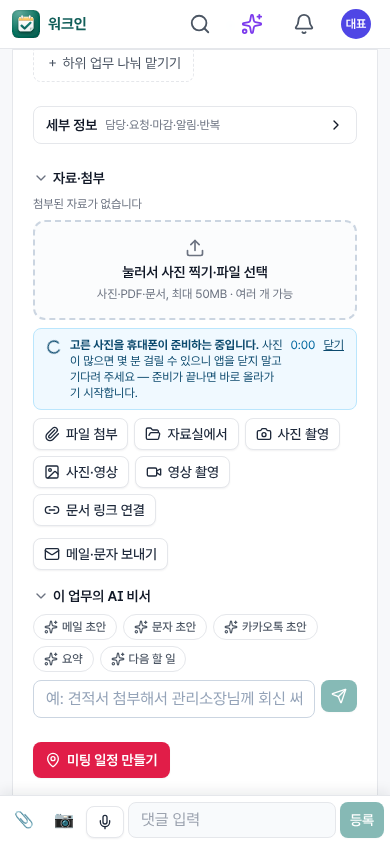
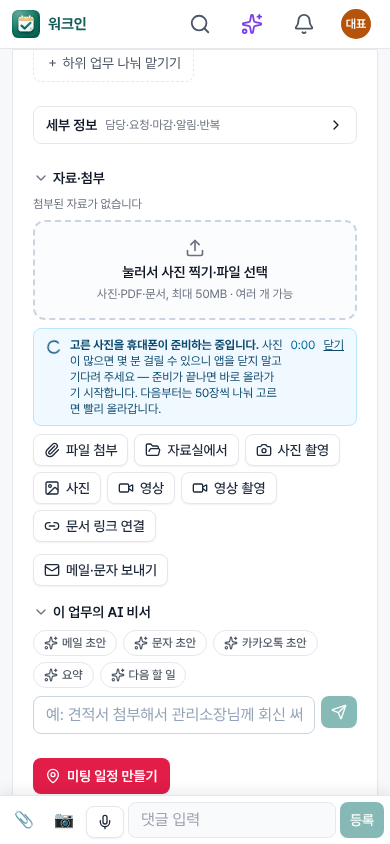
[배포확인요청][로컬요청] 248차 — 긴급 #780 아이폰 사진 50장 업로드 불가: 고르기 칸 accept 명시(HEIC 변환 막기)·사진/영상 따로·HEIC 줄이기·받은 즉시 표시·고르기 진단 · #779 클라우드플레어 비교
로컬 10/28 22:40(운영 조회: 첨부 요청 0건 = 휴대폰이 넘기기 전에 멈춤).
- src/components/pickWait.tsx: PHOTO_ACCEPT(HEIC 를 글자 그대로) · usePickWait(where) open(ref, kind)·received(files)·done({ok,fail}) · 진단 received/cancel/lost/done(파일 이름 없음)
- src/app/api/me/pick-diag: 진단 저장(error_logs 'diag:pick', 알림 없음, 한 사람 한 시간 60건)
- src/app/api/admin/ops·(app)/admin/ops: '휴대폰 사진 고르기 진단(최근 20건)' · 오류 기록에서 diag 뺌
- src/components/shrink.ts: HEIC 는 크기와 상관없이 JPEG 로 · createImageBitmap 안 되면 <img> 로 한 번 더
- src/components/Attachments.tsx: [사진](PHOTO_ACCEPT)·[영상](video/*) 따로 · 받은 파일 n개 · 올린 것 m/n · HEIC 원본은 사진 칸 대신 '내려받아 보기'
- src/components/messenger/Messenger.tsx: [+ › 사진]·[+ › 영상] 따로 · 받은 파일 줄 · 진단
- docs/research/VIDEO_ENGINE_SELFHOST_2026-10-28.md: 클라우드플레어 Realtime 비교 표·로컬 질문 답
- tests: e2e photos213(accept·진단·운영 목록) · ceo211(246차 묶음 줄 '업무 담당')
시험: E2E 5/5 · typecheck·lint·build

Claude-Session: https://claude.ai/code/session_016D6QaBbBuSZXAeHKp3DqaZ

Changed region(s): [[0.0615, 0.4621, 0.9231, 0.955], [0.5538, 0.7085, 0.8, 0.7701], [0.8615, 0.0, 0.9538, 0.0616]]

diff --git a/src/components/Attachments.tsx b/src/components/Attachments.tsx
@@ -10,7 +10,7 @@ import { useBackClose } from './backClose';
 import { DropHint, DropZone, UploadProgress, putFile } from './upload';
 import { AttachEditModal, editModeOf } from './AttachEdit';
 import { holdScreen } from './awake';
-import { IosPickHint, usePickWait } from './pickWait';
+import { IosPickHint, PHOTO_ACCEPT, usePickWait } from './pickWait';
 import { shrinkImage } from './shrink';
 
 export { shrinkImage } from './shrink'; // 213차: 메신저도 쓰므로 작은 파일로 옮김(예전 가져오기 그대로)
@@ -59,7 +59,9 @@ export async function uploadTaskFiles(list: File[], target: { taskId?: string; e
   return ok;
 }
 
-const isImage = (a: any) => a.kind === 'file' && /^image\//.test(a.mime_type ?? '');
+const isImage = (a: any) => a.kind === 'file' && /^image\//.test(a.mime_type ?? '') && !isHeic(a);
+/** 248차 #780: 줄이기(JPEG)에 실패해 아이폰 원본(HEIC)이 그대로 올라간 사진 — PC 브라우저에서 안 보일 수 있어 사진 칸 대신 파일 줄('내려받아 보기') */
+const isHeic = (a: any) => /^image\/hei[cf]$/i.test(a.mime_type ?? '') || /\.(heic|heif)$/i.test(a.file_name ?? '');
 /** 대표 10/27(사진 150장이 지저분하지 않게): 사진 칸에 바로 보이는 수(넘으면 마지막 칸 '+n' → 사진첩) · 사진이 이보다 많으면 파일 목록의 사진 줄은 '사진 n장' 한 줄로 */
 const PHOTO_PREVIEW = 12, PHOTO_ROWS_MAX = 6;
 const seoulDay = (v: string) => dtf('en-CA', { timeZone: 'Asia/Seoul' }).format(new Date(v));
@@ -98,15 +100,19 @@ export function Attachments({ items, taskId, eventId, canEdit, onChange, meId }:
   const canDel = (a: any) => a.created_by === meId || canEdit;
   const albumRef = useRef<HTMLInputElement>(null);
   const vidRef = useRef<HTMLInputElement>(null); // #109 영상 촬영
+  const vidAlbumRef = useRef<HTMLInputElement>(null); // 248차 #780 영상은 사진과 따로 고르기
 
   const [prog, setProg] = useState<{ name: string; pct: number; error?: string }[]>([]);
-  const pick = usePickWait(); // 213차: 아이폰은 사진을 많이 고르면 [추가] 뒤 몇 분 동안 아무 표시가 없음 → '준비 중' 띠
+  const pick = usePickWait('task'); // 213차: 아이폰은 사진을 많이 고르면 [추가] 뒤 몇 분 동안 아무 표시가 없음 → '준비 중' 띠 · 248차 고르기 진단
   async function upload(files: FileList | null) {
-    pick.stop();
+    pick.received(files);
     if (!files?.length) return;
+    const list = Array.from(files);
     setBusy('올리는 중…');
-    await uploadTaskFiles(Array.from(files), { taskId, eventId }, setProg);
+    const ok = await uploadTaskFiles(list, { taskId, eventId }, setProg);
+    pick.done({ ok, fail: list.length - ok });
     setBusy('');
+    if (vidAlbumRef.current) vidAlbumRef.current.value = '';
     if (fileRef.current) fileRef.current.value = '';
     if (camRef.current) camRef.current.value = '';
     if (albumRef.current) albumRef.current.value = '';
@@ -180,6 +186,7 @@ export function Attachments({ items, taskId, eventId, canEdit, onChange, meId }:
                 {a.doc_base_date && <span>기준일 {fmtDate(a.doc_base_date)}</span>}
                 {a.doc_owner && <span>문서 담당 {a.doc_owner}</span>}
                 {a.size_bytes ? <span>{fmtSize(Number(a.size_bytes))}</span> : null}
+                {isHeic(a) && <span className="text-amber-700" data-testid="att-heic">아이폰 사진(HEIC) — PC 에서 안 보이면 내려받아 보기</span>}
                 {a.captured_at && isImage(a) && <span>촬영 {fmtDateTime(a.captured_at)}</span>}{/* 로컬 검수 10/17: 문서(txt 등)는 "촬영" 아님 */}
                 <span>{a.created_by_name}</span>
                 {a.kind === 'link' && <span className="truncate">원본: {(() => { try { return new URL(a.url).hostname; } catch { return ''; } })()}</span>}
@@ -210,13 +217,15 @@ export function Attachments({ items, taskId, eventId, canEdit, onChange, meId }:
       <div className="mt-2 flex flex-wrap gap-1.5">
         <input ref={fileRef} type="file" multiple className="hidden" onChange={(e) => upload(e.target.files)} data-testid="file-input" />
         <input ref={camRef} type="file" accept="image/*" capture="environment" multiple className="hidden" onChange={(e) => upload(e.target.files)} />
-        <input ref={albumRef} type="file" accept="image/*,video/*" multiple className="hidden" onChange={(e) => upload(e.target.files)} data-testid="album-input" />
+        <input ref={albumRef} type="file" accept={PHOTO_ACCEPT} multiple className="hidden" onChange={(e) => upload(e.target.files)} data-testid="album-input" />
+        <input ref={vidAlbumRef} type="file" accept="video/*" multiple className="hidden" onChange={(e) => upload(e.target.files)} data-testid="video-album-input" />
         <input ref={vidRef} type="file" accept="video/*" capture="environment" className="hidden" onChange={(e) => upload(e.target.files)} data-testid="video-input" />
-        <Button size="sm" variant="secondary" onClick={() => pick.open(fileRef)} disabled={!!busy}><Paperclip />파일 첨부</Button>
+        <Button size="sm" variant="secondary" onClick={() => pick.open(fileRef, 'file')} disabled={!!busy}><Paperclip />파일 첨부</Button>
         {taskId && <Button size="sm" variant="secondary" onClick={() => setLibOpen(true)} disabled={!!busy} title="자료실에 있는 파일을 이 업무에 연결(복사 아님, 자료실 권한 그대로)" data-testid="att-from-library"><FolderOpen />자료실에서</Button>}
-        <Button size="sm" variant="secondary" onClick={() => pick.open(camRef)} disabled={!!busy}><Camera />사진 촬영</Button>
-        <Button size="sm" variant="secondary" onClick={() => pick.open(albumRef)} disabled={!!busy} data-testid="att-album"><ImageIcon />사진·영상</Button>
-        <Button size="sm" variant="secondary" onClick={() => pick.open(vidRef)} disabled={!!busy} className="sm:hidden" title="영상 촬영(100MB 까지)" data-testid="att-video-capture"><Video />영상 촬영</Button>
+        <Button size="sm" variant="secondary" onClick={() => pick.open(camRef, 'camera')} disabled={!!busy}><Camera />사진 촬영</Button>
+        <Button size="sm" variant="secondary" onClick={() => pick.open(albumRef, 'photo')} disabled={!!busy} data-testid="att-album"><ImageIcon />사진</Button>
+        <Button size="sm" variant="secondary" onClick={() => pick.open(vidAlbumRef, 'video')} disabled={!!busy} title="영상 고르기(100MB 까지)" data-testid="att-video-album"><Video />영상</Button>
+        <Button size="sm" variant="secondary" onClick={() => pick.open(vidRef, 'video')} disabled={!!busy} className="sm:hidden" title="영상 촬영(100MB 까지)" data-testid="att-video-capture"><Video />영상 촬영</Button>
         <Button size="sm" variant="secondary" onClick={() => setLinkOpen(true)}><Link2 />문서 링크 연결</Button>
         {busy && <span className="inline-flex items-center gap-1.5 text-xs text-ink-2"><Loader2 className="size-3.5 animate-spin" />{busy}</span>}
       </div>
@@ -260,6 +269,7 @@ export function Attachments({ items, taskId, eventId, canEdit, onChange, meId }:
           <div className="flex justify-end gap-2"><Button type="button" variant="secondary" onClick={() => setLinkOpen(false)}>취소</Button><Button type="submit">연결</Button></div>
         </form>
       </Modal>
+      {prog.length > 1 && <p className="mt-2 text-xs text-ink-2" data-testid="pick-received">받은 파일 <b>{prog.length}개</b> · 올린 것 {prog.filter((p) => p.pct >= 100).length}/{prog.length}{prog.some((p) => p.error) ? ` · 못 올린 것 ${prog.filter((p) => p.error).length}` : ''}</p>}
       <UploadProgress items={prog} />
       <input ref={verRef} type="file" className="hidden" onChange={(e) => uploadVersion(verTarget, e.target.files?.[0])} aria-label="새 버전 파일" data-testid="att-version-file" />
       {editOf && <AttachEditModal a={editOf} onClose={() => setEditOf(null)} onSaved={() => { onChange(); broadcastRefresh(); }} onDownload={() => openFile(editOf.id, false)} onUploadNew={() => { setVerTarget(editOf); verRef.current?.click(); }} />}

diff --git a/src/components/messenger/Messenger.tsx b/src/components/messenger/Messenger.tsx
@@ -10,7 +10,7 @@ import { useSession } from '@/components/session';
 import { cameBack } from '@/components/urlState';
 import { DropZone, UploadProgress, putFile } from '@/components/upload';
 import { holdScreen } from '@/components/awake';
-import { IosPickHint, usePickWait } from '@/components/pickWait';
+import { IosPickHint, PHOTO_ACCEPT, usePickWait } from '@/components/pickWait';
 import { shrinkImage } from '@/components/shrink';
 import { CHAT_FILES_MAX } from '@/lib/chatShared';
 import { Avatar, Button, Field, Modal, Skeleton, cx, fmtDateTime, inputCls, toast } from '@/components/ui';
@@ -361,7 +361,8 @@ export function ChatRoom({ id, live, onRead, onBack, compact, onExpand, onClose,
   const loadingNewer = useRef(false);
   const fileRef = useRef<HTMLInputElement>(null);
   const camRef = useRef<HTMLInputElement>(null);
-  const galleryRef = useRef<HTMLInputElement>(null); // #109 갤러리 사진·영상
+  const galleryRef = useRef<HTMLInputElement>(null); // #109 갤러리 사진(248차 #780 사진만 — 영상은 videoRef)
+  const videoRef = useRef<HTMLInputElement>(null);
   const inputRef = useRef<HTMLTextAreaElement>(null);
   const bottom = useRef<HTMLDivElement>(null);
   const lastTyping = useRef(0);
@@ -566,9 +567,9 @@ export function ChatRoom({ id, live, onRead, onBack, compact, onExpand, onClose,
     else { stopSpeaking(); setVPhase('idle'); setHeard(''); }
   }
   useEffect(() => { if (voice) keepScreenOn(true); return () => { keepScreenOn(false); stopSpeaking(); }; }, []); // eslint-disable-line react-hooks/exhaustive-deps
-  const pick = usePickWait(); // 213차: 아이폰은 사진을 많이 고르면 [추가] 뒤 몇 분 동안 아무 표시가 없음 → '준비 중' 띠
+  const pick = usePickWait('chat'); // 213차: 아이폰은 사진을 많이 고르면 [추가] 뒤 몇 분 동안 아무 표시가 없음 → '준비 중' 띠 · 248차 고르기 진단
   async function upload(files: FileList | File[]) {
-    pick.stop();
+    pick.received(files);
     // 213차(대표 10/27 아이폰 147장 '안 보내짐'): 예전엔 30장이 넘으면 나머지를 말없이 버림 → 한 번에 CHAT_FILES_MAX(200)장까지, 넘으면 알림
     const all = Array.from(files); const list = all.slice(0, CHAT_FILES_MAX);
     if (all.length > list.length) toast.info(`한 번에 ${CHAT_FILES_MAX}개까지 보냅니다 — 나머지 ${all.length - list.length}개는 다시 골라 주세요`);
@@ -612,6 +613,8 @@ export function ChatRoom({ id, live, onRead, onBack, compact, onExpand, onClose,
       }
     } finally { release?.(); }
     if (failed && list.length > 5) toast.error(`${list.length}개 중 ${failed}개를 보내지 못했습니다 — 진행 목록에서 이유를 보고 다시 보내 주세요`);
+    pick.done({ ok: list.length - failed, fail: failed });
+    if (videoRef.current) videoRef.current.value = '';
     if (fileRef.current) fileRef.current.value = '';
     if (camRef.current) camRef.current.value = '';
     if (galleryRef.current) galleryRef.current.value = '';
@@ -930,6 +933,7 @@ export function ChatRoom({ id, live, onRead, onBack, compact, onExpand, onClose,
         </div>
         <div className="h-5 bg-slate-50/60 px-3 text-xs text-ink-3" aria-live="polite" data-testid="chat-typing">{typing.length ? `${typing.join(', ')} 님이 입력 중…` : ''}</div>
         {pick.node && <div className="px-3 pt-2">{pick.node}</div>}
+        {prog.length > 1 && <p className="px-3 pt-1 text-xs text-ink-2" data-testid="pick-received">받은 파일 <b>{prog.length}개</b> · 보낸 것 {prog.filter((p) => p.pct >= 100).length}/{prog.length}{prog.some((p) => p.error) ? ` · 못 보낸 것 ${prog.filter((p) => p.error).length}` : ''}</p>}
         <UploadProgress items={prog} />
         {replyTo && (
           <div className="flex items-center gap-2 border-t border-line bg-teal-50/60 px-3 py-1.5 text-xs" data-testid="chat-replying">
@@ -974,9 +978,10 @@ export function ChatRoom({ id, live, onRead, onBack, compact, onExpand, onClose,
             // C13 입력창 [+]: 사진·카메라·파일·투표·일정·업무·스티커·음성 모드(휴대폰은 여기서, PC 는 📎·😊·@ 도 그대로)
             <div className="absolute bottom-full left-2 right-2 z-20 mb-1 grid grid-cols-4 gap-1 rounded-card border border-line bg-white p-2 shadow-pop sm:right-auto sm:w-80" data-testid="chat-plus-panel" onClick={() => setPlusOpen(false)}>
               {([
-                ['photo', '사진·영상', ImageIcon, () => pick.open(galleryRef), 'bg-sky-50 text-sky-700'],
-                ['camera', '카메라', Camera, () => pick.open(camRef), 'bg-teal-50 text-teal-700'],
-                ['file', '파일', Paperclip, () => pick.open(fileRef), 'bg-slate-100 text-slate-700'],
+                ['photo', '사진', ImageIcon, () => pick.open(galleryRef, 'photo'), 'bg-sky-50 text-sky-700'],
+                ['video', '영상', Play, () => pick.open(videoRef, 'video'), 'bg-sky-50 text-sky-700'],
+                ['camera', '카메라', Camera, () => pick.open(camRef, 'camera'), 'bg-teal-50 text-teal-700'],
+                ['file', '파일', Paperclip, () => pick.open(fileRef, 'file'), 'bg-slate-100 text-slate-700'],
                 ['poll', '투표', BarChart3, () => setPollOpen(true), 'bg-violet-50 text-violet-700'],
                 ['event', '일정', CalendarPlus, () => { const today = dayKey(new Date().toISOString()); setEventDraft({ title: '', date: today, time: null }); }, 'bg-amber-50 text-amber-700'],
                 ['task', '업무', SquarePen, () => setNewTask(true), 'bg-rose-50 text-rose-700'],
@@ -991,10 +996,11 @@ export function ChatRoom({ id, live, onRead, onBack, compact, onExpand, onClose,
             </div>
           )}
           <button type="button" className={iconBtn} onClick={() => { setPlusOpen((v) => !v); setEmojiOpen(false); }} aria-label="더 보내기(사진·파일·투표·일정·업무)" aria-expanded={plusOpen} title="사진·파일·투표·일정·업무" data-testid="chat-plus"><Plus className={cx('size-[18px] transition-transform', plusOpen && 'rotate-45')} /></button>
-          <button type="button" className={cx(iconBtn, 'hidden sm:inline-flex')} onClick={() => pick.open(fileRef)} aria-label="파일 보내기" title="파일 보내기"><Paperclip className="size-[18px]" /></button>
+          <button type="button" className={cx(iconBtn, 'hidden sm:inline-flex')} onClick={() => pick.open(fileRef, 'file')} aria-label="파일 보내기" title="파일 보내기"><Paperclip className="size-[18px]" /></button>
           <input ref={fileRef} type="file" multiple className="hidden" onChange={(e) => e.target.files && upload(e.target.files)} data-testid="chat-file" />
           <input ref={camRef} type="file" accept="image/*" capture="environment" className="hidden" onChange={(e) => e.target.files && upload(e.target.files)} />
-          <input ref={galleryRef} type="file" accept="image/*,video/*" multiple className="hidden" onChange={(e) => e.target.files && upload(e.target.files)} data-testid="chat-gallery-input" />
+          <input ref={galleryRef} type="file" accept={PHOTO_ACCEPT} multiple className="hidden" onChange={(e) => e.target.files && upload(e.target.files)} data-testid="chat-gallery-input" />
+          <input ref={videoRef} type="file" accept="video/*" multiple className="hidden" onChange={(e) => e.target.files && upload(e.target.files)} data-testid="chat-video-input" />
           <VoiceButton small value={text} onChange={(v) => onType(v)} label="음성 입력" />
           <textarea ref={inputRef} rows={1} className={cx(inputCls, 'max-h-32 min-h-9 min-w-0 flex-1 resize-none py-1.5')} placeholder="메시지 입력" title="Enter 보내기 · Shift+Enter 줄바꿈 · @ 멘션 · 이미지 붙여넣기" value={text}
             onChange={(e) => onType(e.target.value)} aria-label="메시지" data-testid="chat-input"

diff --git a/src/components/pickWait.tsx b/src/components/pickWait.tsx
@@ -2,8 +2,33 @@
 import { useCallback, useEffect, useRef, useState, type RefObject } from 'react';
 import { Loader2 } from 'lucide-react';
 import { holdScreen } from './awake';
+import { api } from './client';
 
 const MAX_WAIT_MS = 20 * 60_000;
+
+/** 248차 #780(대표 '김민수 본부장 50장 사진 업로드 불가 — 원인 분석하고 해결'): 사진 고르기 칸 accept 를 'image/*' 대신 명시 목록으로.
+ *  아이폰 웹킷은 accept 가 와일드카드면 HEIC 를 '목록에 없음'으로 보고 [추가] 뒤 사진마다 JPEG 로 바꿔 넘김(장수에 비례, 그동안 아무 표시 없음 — WebKit 267277·303803).
+ *  HEIC 를 글자 그대로 넣으면 바꾸지 않고 바로 넘김 → 웹에서 한 장씩 줄여 JPEG 로 올림(shrinkImage). 영상은 따로 고르기(영상 변환에 사진이 묶이지 않게) */
+export const PHOTO_ACCEPT = 'image/jpeg,image/heic,image/heif,image/png,image/webp,image/gif';
+type PickWhere = 'task' | 'chat';
+type PickKind = 'photo' | 'video' | 'camera' | 'file';
+const KEY = 'wos_pick';
+const readMark = (): { at: number; where: PickWhere; kind: PickKind } | null => { try { const v = sessionStorage.getItem(KEY); return v ? JSON.parse(v) : null; } catch { return null; } };
+const clearMark = () => { try { sessionStorage.removeItem(KEY); } catch { /* 저장 못 함 */ } };
+const secSince = (at?: number) => (at ? Math.round((Date.now() - at) / 100) / 10 : null);
+/** 고르기 진단(파일 이름·사진 내용은 안 보냄): 받음(장수·크기·형식별 수·연 뒤 걸린 초) · 취소 · 고르는 중 화면이 다시 열림(웹뷰가 죽음) · 끝(성공·실패) + 기기 */
+function diag(event: 'received' | 'cancel' | 'lost' | 'done', extra: Record<string, unknown>) {
+  try {
+    const app = !!(window as unknown as { Capacitor?: { isNativePlatform?: () => boolean } }).Capacitor?.isNativePlatform?.();
+    void api('/api/me/pick-diag', { body: { event, ...extra, ua: navigator.userAgent.slice(0, 200), app } }).catch(() => {});
+  } catch { /* 진단은 실패해도 그만 */ }
+}
+const kindsOf = (files: File[]) => {
+  const k = { heic: 0, jpeg: 0, png: 0, video: 0, other: 0 };
+  for (const f of files) { const t = (f.type || '').toLowerCase(), n = f.name.toLowerCase();
+    if (/heic|heif/.test(t) || /\.(heic|heif)$/.test(n)) k.heic++; else if (/jpe?g/.test(t)) k.jpeg++; else if (/png/.test(t)) k.png++; else if (/^video\//.test(t)) k.video++; else k.other++; }
+  return k;
+};
 
 /**
  * 대표 10/27(아이폰에서 사진 147장 '안 보내짐'): 아이폰은 사진을 많이 고르면 [추가]를 누른 뒤 휴대폰이 사진을 넘겨줄 준비를 하는 동안
@@ -12,8 +37,9 @@ const MAX_WAIT_MS = 20 * 60_000;
  * 고르기를 취소하면(input 'cancel', iOS 16.4+·Chrome 113+) 걷는다. 그동안 화면이 꺼지지 않게 잡는다(꺼지면 앱이 멈춰 준비가 끊길 수 있음).
  * 쓰는 쪽: const pick = usePickWait(); 단추 = pick.open(inputRef) · onChange 맨 앞 pick.stop() · 화면에 {pick.node}
  */
-export function usePickWait() {
+export function usePickWait(where: PickWhere = 'task') {
   const [on, setOn] = useState(false);
+  const got = useRef<{ at: number; count: number; kind: PickKind } | null>(null);
   const [since, setSince] = useState(0); const [, tick] = useState(0); // 지난 시간(멈춘 게 아님을 보이게)
   const hold = useRef<Promise<() => void> | null>(null);
   const timer = useRef<ReturnType<typeof setTimeout> | null>(null);
@@ -22,15 +48,32 @@ export function usePickWait() {
     if (timer.current) { clearTimeout(timer.current); timer.current = null; }
     const h = hold.current; hold.current = null; h?.then((release) => release());
   }, []);
-  const open = useCallback((ref: RefObject<HTMLInputElement | null>) => {
+  const open = useCallback((ref: RefObject<HTMLInputElement | null>, kind: PickKind = 'photo') => {
     if (!ref.current) return;
     setOn(true); setSince(Date.now());
     hold.current ??= holdScreen();
     if (timer.current) clearTimeout(timer.current);
     timer.current = setTimeout(stop, MAX_WAIT_MS);
-    ref.current.addEventListener('cancel', stop, { once: true });
+    try { sessionStorage.setItem(KEY, JSON.stringify({ at: Date.now(), where, kind })); } catch { /* 저장 못 함 */ }
+    ref.current.addEventListener('cancel', () => { const m = readMark(); clearMark(); if (m) diag('cancel', { where, kind, sec: secSince(m.at) }); stop(); }, { once: true });
     ref.current.click();
-  }, [stop]);
+  }, [stop, where]);
+  /** 248차 #780: 고르기 창에서 파일이 들어온 순간(onChange 맨 앞) — 띠를 걷고 받은 장수·형식·걸린 초를 기록 */
+  const received = useCallback((files: FileList | File[] | null | undefined) => {
+    stop();
+    const list = Array.from(files ?? []); const m = readMark(); clearMark();
+    if (!m || !list.length) return;
+    got.current = { at: Date.now(), count: list.length, kind: m.kind };
+    diag('received', { where, kind: m.kind, count: list.length, bytes: list.reduce((a, f) => a + f.size, 0), kinds: kindsOf(list), sec: secSince(m.at) });
+  }, [stop, where]);
+  /** 올리기가 끝나면 — 성공·실패 수와 첫 오류(파일 이름 없이) */
+  const done = useCallback((r: { ok: number; fail: number; firstError?: string | null }) => {
+    const g = got.current; got.current = null;
+    if (!g) return;
+    diag('done', { where, kind: g.kind, count: g.count, ok: r.ok, fail: r.fail, firstError: r.firstError?.slice(0, 160) ?? null, sec: secSince(g.at) });
+  }, [where]);
+  // 고르는 중에 화면이 다시 열렸으면(앱 웹뷰가 메모리 부족 등으로 죽음) — 다음에 화면을 열 때 한 번 기록
+  useEffect(() => { const m = readMark(); if (m && Date.now() - m.at > 3000) { clearMark(); diag('lost', { where: m.where, kind: m.kind, sec: secSince(m.at) }); } }, []);
   useEffect(() => stop, [stop]); // 화면을 떠나면 놓음
   useEffect(() => { if (!on) return; const t = setInterval(() => tick((n) => n + 1), 1000); return () => clearInterval(t); }, [on]);
   const sec = on && since ? Math.max(0, Math.floor((Date.now() - since) / 1000)) : 0;
@@ -42,7 +85,7 @@ export function usePickWait() {
       <button type="button" className="shrink-0 underline" onClick={stop} data-testid="pick-wait-close">닫기</button>
     </div>
   ) : null;
-  return { open, stop, node, on };
+  return { open, stop, received, done, node, on };
 }
 
 /**

diff --git a/src/components/shrink.ts b/src/components/shrink.ts
@@ -1,21 +1,35 @@
 'use client';
 
-/** V8 5번: 사진은 올리기 전에 긴 변 1600px·JPEG 85% 로 줄인다(휴대폰 원본 5~10MB → 수백 KB). GIF·작은 사진·실패 시 원본 */
-export async function shrinkImage(file: File): Promise<File> {
-  if (!/^image\/(jpeg|png|webp|heic|heif)$/i.test(file.type) || file.size < 400 * 1024 || typeof createImageBitmap !== 'function') return file;
+/** V8 5번: 사진은 올리기 전에 긴 변 1600px·JPEG 85% 로 줄인다(휴대폰 원본 5~10MB → 수백 KB). GIF·작은 사진·실패 시 원본
+ *  248차 #780: 아이폰 사진(HEIC)은 고르기 칸이 변환하지 않고 넘기므로(PHOTO_ACCEPT) 크기와 상관없이 JPEG 로 바꿈 — createImageBitmap 이 못 읽으면 <img> 로 한 번 더(iOS 17+ 는 HEIC 를 읽음),
+ *  그래도 못 읽으면 원본 HEIC 를 그대로 올림(첨부 줄에 '아이폰 사진(HEIC) — 내려받아 보기') */
+const isHeicFile = (f: File) => /^image\/hei[cf]$/i.test(f.type) || /\.(heic|heif)$/i.test(f.name);
+async function decode(file: File): Promise<{ w: number; h: number; draw: (c: CanvasRenderingContext2D, w: number, h: number) => void; close: () => void }> {
+  if (typeof createImageBitmap === 'function') {
+    try { const b = await createImageBitmap(file); return { w: b.width, h: b.height, draw: (c, w, h) => c.drawImage(b, 0, 0, w, h), close: () => b.close() }; } catch { /* 아래 <img> 로 */ }
+  }
+  const url = URL.createObjectURL(file);
   try {
-    const bmp = await createImageBitmap(file);
+    const img = new Image(); img.src = url; await img.decode();
+    return { w: img.naturalWidth, h: img.naturalHeight, draw: (c, w, h) => c.drawImage(img, 0, 0, w, h), close: () => { img.src = ''; URL.revokeObjectURL(url); } };
+  } catch (e) { URL.revokeObjectURL(url); throw e; }
+}
+export async function shrinkImage(file: File): Promise<File> {
+  const heic = isHeicFile(file);
+  if (!heic && (!/^image\/(jpeg|png|webp)$/i.test(file.type) || file.size < 400 * 1024)) return file;
+  try {
+    const bmp = await decode(file);
     // 대표 10/27(휴대폰 사진 150장 안 올라감): 풀어 놓은 사진·그림판을 바로 비움 — 안 비우면 장수가 많을 때 휴대폰 메모리가 모자라 화면이 멈춤
     const c = document.createElement('canvas');
     try {
-      const scale = Math.min(1, 1600 / Math.max(bmp.width, bmp.height));
-      if (scale === 1 && file.size < 1.5 * 1024 * 1024) return file;
-      c.width = Math.round(bmp.width * scale); c.height = Math.round(bmp.height * scale);
-      c.getContext('2d')!.drawImage(bmp, 0, 0, c.width, c.height);
+      const scale = Math.min(1, 1600 / Math.max(bmp.w, bmp.h));
+      if (!heic && scale === 1 && file.size < 1.5 * 1024 * 1024) return file;
+      c.width = Math.round(bmp.w * scale); c.height = Math.round(bmp.h * scale);
+      bmp.draw(c.getContext('2d')!, c.width, c.height);
     } finally { bmp.close(); }
     const blob: Blob | null = await new Promise((r) => c.toBlob(r, 'image/jpeg', 0.85));
     c.width = 0; c.height = 0;
-    if (!blob || blob.size >= file.size) return file;
+    if (!blob || (!heic && blob.size >= file.size)) return file;
     return new File([blob], file.name.replace(/\.\w+$/, '') + '.jpg', { type: 'image/jpeg', lastModified: file.lastModified });
   } catch { return file; }
 }

diff --git a/src/app/api/admin/ops/route.ts b/src/app/api/admin/ops/route.ts
@@ -5,9 +5,9 @@ import { requireMenu } from '@/lib/menuPerms';
 export const GET = handler(async ({ user }) => {
   await requireMenu(user, 'ops', 'view');
   const sql = db();
-  const [jobs, errors, deliveries, syncErrors, counts, recent, noDevice, dbLocale] = await Promise.all([
+  const [jobs, errors, deliveries, syncErrors, counts, recent, noDevice, dbLocale, pickDiag] = await Promise.all([
     sql`select id, job, trigger, started_at, finished_at, status, detail from job_runs order by id desc limit 30`,
-    sql`select id, source, message, context, created_at from error_logs order by id desc limit 50`,
+    sql`select id, source, message, context, created_at from error_logs where source not like 'diag:%' order by id desc limit 50`,
     sql`select status, count(*)::int c from notification_deliveries where created_at > now() - interval '7 days' group by status`,
     sql`select l.id, l.action, l.status, l.detail, l.created_at, u.name from sync_logs l left join users u on u.id = l.user_id
         where l.status in ('error','conflict') order by l.id desc limit 30`,
@@ -26,6 +26,8 @@ export const GET = handler(async ({ user }) => {
         and not exists (select 1 from push_subscriptions p where p.user_id = u.id and p.disabled_at is null) order by u.name`,
     // 163차 ①(로컬 10/26 ⑤): 운영 DB 정렬 규칙 — en_US.utf8 이면 한글 이름순이 가나다순이 아닐 수 있음(C.UTF-8·ko_KR 이면 괜찮음)
     sql<{ datcollate: string; datctype: string; version: string }[]>`select datcollate, datctype, version() as version from pg_database where datname = current_database()`,
+    // 248차 #780: 휴대폰 사진 고르기 진단 최근 20건(사람 이름·기기)
+    sql`select e.id, e.message, e.context, e.created_at, u.name from error_logs e left join users u on u.id::text = e.context->>'userId' where e.source = 'diag:pick' order by e.id desc limit 20`,
   ]);
-  return { jobs, errors, deliveries, syncErrors, counts: counts[0], recent, noDevice, dbLocale: dbLocale[0] ?? null };
+  return { jobs, errors, deliveries, syncErrors, counts: counts[0], recent, noDevice, dbLocale: dbLocale[0] ?? null, pickDiag };
 });

diff --git a/src/app/api/me/pick-diag/route.ts b/src/app/api/me/pick-diag/route.ts
@@ -1,0 +1,20 @@
+import { z } from 'zod';
+import { body, handler } from '@/lib/api';
+import { db } from '@/lib/db';
+import { tenantOf } from '@/lib/types';
+
+const n = z.number().int().min(0).max(100000).optional();
+const input = z.object({
+  event: z.enum(['received', 'cancel', 'lost', 'done']), where: z.enum(['task', 'chat']).optional(), kind: z.enum(['photo', 'video', 'camera', 'file']).optional(),
+  count: n, bytes: z.number().min(0).max(1e12).optional(), sec: z.number().min(0).max(86400).nullable().optional(), ok: n, fail: n, firstError: z.string().max(160).nullable().optional(),
+  kinds: z.object({ heic: n, jpeg: n, png: n, video: n, other: n }).optional(), ua: z.string().max(200).optional(), app: z.boolean().optional(),
+});
+/** 248차 #780: 휴대폰 사진 고르기 진단 — 받음·취소·화면 다시 열림·끝(파일 이름·사진 내용 없음). 오류 기록 표에 'diag:pick' 으로(알림 없음) · 한 사람 한 시간 60건까지 */
+export const POST = handler(async ({ req, user }) => {
+  const i = await body(req, input); const sql = db();
+  const [{ c }] = await sql<{ c: number }[]>`select count(*)::int c from error_logs where source = 'diag:pick' and context->>'userId' = ${user.id} and created_at > now() - interval '1 hour'`;
+  if (c >= 60) return { ok: false };
+  const msg = `${i.event}${i.count != null ? ` ${i.count}개` : ''}${i.sec != null ? ` · ${i.sec}초` : ''}${i.fail ? ` · 실패 ${i.fail}` : ''}`;
+  await sql`insert into error_logs (source, message, context) values ('diag:pick', ${msg}, ${sql.json({ ...i, userId: user.id, tenant: tenantOf(user) } as never)})`;
+  return { ok: true };
+});

diff --git a/src/app/(app)/admin/ops/page.tsx b/src/app/(app)/admin/ops/page.tsx
@@ -87,6 +87,12 @@ export default function Ops() {
         <ul className="space-y-1 text-xs">{data.syncErrors.map((s: any) => <li key={s.id}>{fmtDateTime(s.created_at)} · {s.name} · {s.action} · {s.status} {s.detail?.error ?? ''}</li>)}{!data.syncErrors.length && <li className="text-slate-400">없음</li>}</ul>
       </section>
       <section className="rounded-lg border bg-white p-4">
+        <h2 className="mb-2 text-sm font-semibold">휴대폰 사진 고르기 진단 (최근 20건)</h2>
+        <ul className="space-y-1 text-xs" data-testid="ops-pick-diag">{(data.pickDiag ?? []).map((e: any) => { const c = e.context ?? {}; const k = c.kinds ?? {};
+          return <li key={e.id}>{fmtDateTime(e.created_at)} · {e.name ?? '?'} · {c.where === 'chat' ? '메신저' : '업무'} · {e.message}{c.kinds ? ` · HEIC ${k.heic ?? 0}·JPEG ${k.jpeg ?? 0}·PNG ${k.png ?? 0}·영상 ${k.video ?? 0}` : ''}{c.bytes ? ` · ${(c.bytes / 1048576).toFixed(1)}MB` : ''}{c.firstError ? ` · 첫 오류 ${c.firstError}` : ''} · {c.app ? '앱' : '웹'} · {String(c.ua ?? '').match(/(iPhone OS|Android) [\d_.]+/)?.[0]?.replace(/_/g, '.') ?? ''}</li>; })}
+          {!(data.pickDiag ?? []).length && <li className="text-slate-400">없음</li>}</ul>
+      </section>
+      <section className="rounded-lg border bg-white p-4">
         <h2 className="mb-2 text-sm font-semibold">오류 기록</h2>
         <ul className="space-y-1 text-xs">{data.errors.map((e: any) => <li key={e.id} className="text-red-700">{fmtDateTime(e.created_at)} · [{e.source}] {e.message}</li>)}{!data.errors.length && <li className="text-slate-400">없음</li>}</ul>
       </section>

diff --git a/TEST_REPORT.md b/TEST_REPORT.md
@@ -1,7 +1,9 @@
 # 시험 보고서
 
 최종 실행: 2026-10-13 (UTC) · 클라우드 개발 환경 (Node 22, PostgreSQL 16, Chromium 141)
-요약 (2026-10-28 247차: 로컬 10/28 21:35 대표 결정 #777·#778(후속조사): ① 매주 자동 후속조사 묶음 기본 꺼짐(SALES_RESEARCH_WEEKLY 없으면 'off' — 환경 변수를 넣은 경우만 자동) · 머리 줄 '카드를 확인한 뒤 [후속조사 넘기기]로 사람이 넘깁니다 — 자동 묶음 꺼짐' ② 준공·입주 시설 카드 [후속조사 넘기기] · 여러 개 체크 → 아래 줄 [후속조사 넘기기 n곳] → 담당 고르기(기본 = 관리 › 담당자 지정 '영업 원천 · 시설', 영업 공간 사람만) → 업무 하나(마감 7일·알림) · 이미 후속조사 중인 곳은 건너뜀 · 카드 '후속조사 중 · 담당 · 마감' ③ 완료 창 연락 결과 먼저 — 통화(통화함·안 받음·번호 틀림) · 통화한 분 직함(이름·개인 번호 안 적음) · 반응 · 미팅 약속 일시(→ 일정, 회사 캘린더 권한 없으면 내 캘린더) · 다음 연락일(→ '[영업] 단지 — 다음 연락' 업무) · 같은 값 다시 저장해도 한 번만 · 통화가 안 됐고 다른 값이 없으면 '확인 못함' · 계약 만료일은 선택 칸 · 카드에 직함·반응·미팅
+요약 (2026-10-28 248차: 긴급 로컬 10/28 22:40 #780(대표 '김민수 본부장 50장 사진 업로드 불가 — 원인 분석하고 해결') + #779: ① 원인(로컬 운영 조회 + 공개 자료): 첨부 요청이 한 번도 안 들어옴 = 휴대폰이 파일을 넘기기 전에 멈춤. 사진 고르기 칸이 accept="image/*,video/*"(와일드카드)라 아이폰 웹킷이 HEIC 를 '목록에 없음'으로 보고 [추가] 뒤 사진마다 JPEG 로 변환(장수에 비례, 그동안 표시 없음 — WebKit 267277·303803) ② 고침: 업무 첨부·메신저 사진 고르기 칸 accept = 'image/jpeg,image/heic,image/heif,image/png,image/webp,image/gif'(HEIC 를 글자 그대로 → 변환 없이 바로 넘김) · 영상은 [영상] 따로(accept video/*) · 촬영 칸은 그대로 ③ 넘어온 HEIC 는 웹에서 한 장씩 JPEG 로 줄여 올림(createImageBitmap → 안 되면 <img> 로 한 번 더 → 그래도 안 되면 원본 HEIC + 첨부 줄 '아이폰 사진(HEIC) — 내려받아 보기') ④ 받은 즉시 '받은 파일 n개 · 올린 것 m/n' 한 줄 ⑤ 고르기 진단(파일 이름·사진 내용 없음): 받음(장수·크기·HEIC/JPEG/PNG/영상 수·연 뒤 걸린 초)·취소·고르는 중 화면이 다시 열림(웹뷰 죽음)·끝(성공·실패) + 기기(앱/웹·iOS 버전) → 관리 › 운영 '휴대폰 사진 고르기 진단(최근 20건)', 오류 기록과 따로 ⑥ #779 화상회의 계획서에 클라우드플레어 Realtime 비교 표(서버 운영 없음·월 1,000GB 무료·기간 2~3주)와 로컬 질문 5개 답 · 246차가 바꾼 캘린더 묶음 줄 표시('업무 1' → '업무 담당')를 211차 시험에 반영
+시험: E2E 5/5(213차 고르기 칸 accept·취소/받음/끝 진단·운영 목록 · #749 147장 업무·메신저 · 211차 14장·캘린더 한 줄 · 입찰 같은 제목·사전규격 대상 아님 탭) · typecheck·lint·build
+확인 못함: 실제 아이폰에서 [추가] 뒤 바로 넘어오는지(크로미움 휴대폰 흉내는 HEIC 변환이 없어 재현 못함) — 배포 뒤 김민수 본부장 50장 실기기 시험과 관리 › 운영 진단 줄로 확인 · HEIC 를 웹에서 줄일 수 있는 iOS 버전) · 앞선 요약 (2026-10-28 247차: 로컬 10/28 21:35 대표 결정 #777·#778(후속조사): ① 매주 자동 후속조사 묶음 기본 꺼짐(SALES_RESEARCH_WEEKLY 없으면 'off' — 환경 변수를 넣은 경우만 자동) · 머리 줄 '카드를 확인한 뒤 [후속조사 넘기기]로 사람이 넘깁니다 — 자동 묶음 꺼짐' ② 준공·입주 시설 카드 [후속조사 넘기기] · 여러 개 체크 → 아래 줄 [후속조사 넘기기 n곳] → 담당 고르기(기본 = 관리 › 담당자 지정 '영업 원천 · 시설', 영업 공간 사람만) → 업무 하나(마감 7일·알림) · 이미 후속조사 중인 곳은 건너뜀 · 카드 '후속조사 중 · 담당 · 마감' ③ 완료 창 연락 결과 먼저 — 통화(통화함·안 받음·번호 틀림) · 통화한 분 직함(이름·개인 번호 안 적음) · 반응 · 미팅 약속 일시(→ 일정, 회사 캘린더 권한 없으면 내 캘린더) · 다음 연락일(→ '[영업] 단지 — 다음 연락' 업무) · 같은 값 다시 저장해도 한 번만 · 통화가 안 됐고 다른 값이 없으면 '확인 못함' · 계약 만료일은 선택 칸 · 카드에 직함·반응·미팅
 시험: API 8/8(새 sales-research-handoff-247 3 · sales-research-212 5) · E2E 1/1(212차 후속조사 — 두 곳 체크 넘기기·연락 결과·미팅 일정·다음 연락 업무) · typecheck·lint·build
 확인 못함: 운영에서 김소담 부사장 기본 담당(로컬이 넣은 담당자 지정 규칙) · 대표 배정 이번 주 업무 10곳 처리(대표 답 대기) · 휴대폰 완료 창 입력 편의) · 앞선 요약 (2026-10-28 246차: 로컬 10/28 21:10 대표 7건(#770~#776): ① #772 결정 '공고 마감일 당일·마감 시각' — 입찰 업무 마감 = 입찰 마감일 당일 + 마감 시각(14:00·17:00 등, 업무 마감 시각 칸) · 넘기기·리드 옮기기·상태 버튼 자동 업무 모두 · 예전 규칙(마감 전날)으로 만든 열린 입찰 업무는 정기 점검이 한 번 새 규칙으로 다시 계산(사람이 옮긴 기한도, 대표 지시) · 그 뒤로는 사람이 바꾼 기한 그대로 · 카드 '입찰 업무 · 마감 11/2(월) 17:00' ② #771 일정 = 입찰 마감 + 현장설명회(일시가 있고 '없음'이 아닐 때)만 — 참가신청·개찰 일정은 새로 만들지 않음(업무 체크리스트에는 남음, 예전에 만든 일정은 날짜만 따라감) ③ #770 같은 날 같은 건으로 묶인 업무 — 일정 줄에 '업무 담당 이름', 일정을 누르면 미리보기에 업무 줄(상태·마감 시각·담당·[업무 열기]·[완료]) ④ #773 [대상 아님] 탭 — 마감 달마다 묶음 머리 · 마감 지난 것은 기본 접힘(지우지 않음) · 사유 칩으로 거르기 ⑤ #774 공간 배지 = 공간 색 네모(알림 빨간 동그라미와 다른 모양) + 이름표('오늘 새 공고 n건'·'승인할 것 n건') · 공간 첫 화면 맨 위 한 줄(누르면 그 목록) · 마케팅 요약 '승인할 것 n건(시안·운영)' = 승인함 머리와 같은 이름·수 ⑥ #775 후속조사 완료 창 — 통화 도움(공개 자료로 아는 것: 관리사무소 번호·관리회사·관련 공고·입주/사용승인 · 물어볼 말 3줄, AI 호출 없음) · 적은 답 한 줄 정리 ⑦ #776 화상회의 비용 0 안(기기끼리 P2P 최대 4명 / 오라클 상시 무료 서버 + 라이브킷) 계획서에 추가
 시험: API 영업 전체·마케팅 배지 205 중 204 → 상태 버튼 입찰 업무 기대값(마감 전날→당일 17:00) 고친 뒤 sales-auto 7/7 · E2E 3/3(새 246차 #770·#773·#774 592~594 · 212차 후속조사 + #775 정리·통화 도움 · S1-2 입찰 넘기기) · typecheck·lint·build

diff --git a/docs/handoff/LOCAL_LOG.md b/docs/handoff/LOCAL_LOG.md
@@ -631,6 +631,7 @@
 - 2026-10-28 [클라우드] [로컬요청] 245차 — 자동 시험 빨간불 2가지 고침(K-apt 자료실 시험 기대값 · 219차 화상회의 시험 날짜) · 나라장터 참가 제한: 예전에 저장된 관련 공고를 한 번도 안 묻던 결함 고침 · 플랫폼 운영 공고 조회 g2b=1 진단(저장 안 함). 로컬 확인 부탁: /api/platform/sales-notices?g2b=1 (번호 없이 = 값 없던 최근 3건 · 또는 &no=공고번호) 결과의 tries(공고번호·공고번호+차수·게시일 기간별 codes·total·raw·same·keys·first·head)를 그대로 전달 · 다음 나라장터 수집 요약에 '참가 제한 조회 n건(값 m)'이 다시 나오는지
 - 2026-10-28 [클라우드] [배포확인요청][로컬요청] 246차 — #772 입찰 업무 마감 = 공고 마감일 당일·마감 시각(예전 업무도 정기 점검이 한 번 다시 계산) · #771 일정은 입찰 마감 + 현설(일시 있을 때)만 · #770 묶인 업무 일정 줄 표시·미리보기 [업무 열기]·[완료] · #773 대상 아님 달마다 묶음·지난 것 접힘·사유 칩 · #774 공간 배지 공간 색 네모·이름표·첫 화면 한 줄 · #775 후속조사 통화 도움·답 정리 · #776 화상회의 비용 0 안 문서. 로컬 확인 부탁: 다음 정기 점검(10분 안) 뒤 광명푸르지오센트베르·한화포레나 업무 마감이 '11/2 + 마감 시각'인지 · 11/2 일 보기에서 묶인 줄 '업무 이름' 표시와 눌렀을 때 업무 줄 · 대상 아님 탭 · 영업·마케팅 배지 모양과 첫 화면 한 줄 · 계획서 비용 0 안 대표 전달
 - 2026-10-28 [클라우드] [배포확인요청][로컬요청] 247차 — #777 후속조사 자동 묶음 기본 꺼짐 · 카드/여러 개 체크 [후속조사 넘기기](담당 기본 = 담당자 지정 '영업 원천 · 시설') · 카드 '후속조사 중 · 담당' · #778 완료 창 연락 결과(통화·직함·반응·미팅 약속 → 일정·다음 연락일 → 업무, 계약 만료일 선택). 로컬 확인 부탁: 허브 준공·입주 시설 카드 [후속조사 넘기기] 기본 담당이 김소담 부사장인지 · 머리 줄 '자동 묶음 꺼짐' · 다음 월요일 자동 업무가 안 생기는지(Vercel 에 SALES_RESEARCH_WEEKLY 가 들어 있으면 그 값이 우선 — 있으면 지워 달라고 대표께)
+- 2026-10-28 [클라우드] [배포확인요청][로컬요청] 248차 — 긴급 #780 아이폰 사진 고르기 칸 accept 명시(HEIC 변환 막기)·[사진]/[영상] 따로·HEIC 는 웹에서 JPEG 로 줄임·받은 즉시 한 줄·고르기 진단(관리 › 운영 최근 20건) · #779 클라우드플레어 Realtime 비교 절. 로컬 확인 부탁: 운영 업무 화면·메신저 [+]의 사진 칸 accept 값 · 김민수 본부장 아이폰 50장 실기기([사진] → 고르기 → [추가] 뒤 목록이 뜨기까지 초) · 관리 › 운영 '휴대폰 사진 고르기 진단' 줄(받음·끝·걸린 초·HEIC 수) · 화상회의 비교 표 대표 전달(추천 = 클라우드플레어 Realtime)
 - 2026-10-26 [클라우드] [배포확인요청] 176차 — 171·173차 CI 빨간불 원인 2가지 바로잡음: ① 캘린더 종일 칸 설정이 창 폭이 640 을 넘나들 때 PC 값(꺼짐)을 휴대폰 키에 덮어쓰던 실제 버그(휴대폰 보기 종일 줄이 꺼진 채 시작) → 사람이 바꿀 때만 저장·폭 바뀌면 다시 읽음 ② 실기기 83 시트 버튼 줄 1px 여유. 로컬 확인 요청: 없음(운영 화면 변화는 'PC 창을 좁혔다 넓혀도 휴대폰 종일 줄 설정이 안 꺼짐'뿐). CI 결과는 클라우드가 확인.
 - 2026-10-25 [클라우드] [배포확인요청] 149차 — #599 새 고객사 시뮬레이션(시험 서버 E2E: 가입 → 온보딩 → 첫 화면 → 공간 켜기 → 데이터 설정 → 마케팅 → 자동 제작 → 사용량 → 알림 → API 8개, 캡처 281~295) 명세 §3 결과: 내부 이름 0건 · 키 없는 수집기 7개 = '신청 필요'+[방법 보기] · '채널 연결 3단계' · 첫날 알림 0건 · 사용량 원화만. #602 공통 함수 customerScope(seesInternals = 슈퍼관리자 또는 내부 테넌트): 수집기·사용량·자동 제작·마케팅 홈·AI 예산 응답에서 원인·원가·달러·모델·외부 서비스 이름·원천 주소·공용 실행 기록 제거 + 고객 문구 사전 + 금지 낱말 자동 검사(API 5/5·E2E 발견 0건). P0 버그 수정: 새 회사 첫 로그인·온보딩 끝 직후 흰 화면+로고(수화 오류로 실행 애니메이션 덮개가 안 걷힘) → Modal 마운트 뒤 포털·IntroGuard·CSS 안전장치. 마이그레이션 없음(200 그대로). 로컬 요청: ① 운영에서 새 회사 가입(대표 결정 범위 안에서) → 확인 링크 → 첫 화면이 흰 화면 없이 뜨는지, 온보딩 [완료] 직후도 ② 고객사 계정으로 영업 › 데이터 설정(상태 칩 4가지·[방법 보기]·키 이름/주소/오류 원문 없음)·마케팅 › 자동 제작(글 모델 등급 이름만)·관리 › 사용량(원화·%·횟수만) ③ 내부 테넌트(우리 회사)에서는 예전처럼 전부 보이는지 ④ 공개 요금표(/api/public/ai-plans·소개 사이트)의 단가 표시는 그대로 두었음 — 대표 결정 필요하면 알려 주세요.
 - 2026-10-25 [클라우드] [배포확인요청] 148차 — #592 ② 휴대폰 캘린더 주 보기 밀도(명세 §2): 시간 칸 주 40/3일 48/일 64 → 한 화면 약 15시간, 블록 11px 중간 굵기·줄 수 블록 높이만큼, 좁은 블록 앞머리 [태그] 떼기(부재 종류 유지), 종일 줄 기본 켬(2줄 + '+n개' → 그날 목록), 미팅 단추 둥근 48px·아래로 밀면 숨김, 휴대폰 머리줄 한 줄(월▾·보기 전환·‹›·오늘·+). 견적서 공급자 긴 주소 두 줄(로컬 15:45). 마이그레이션 없음(200 그대로). 로컬 요청: ① 대표 휴대폰(390~412px) 주 보기 — 08~22시가 한 화면에, [다짐 문의] 업무가 내용부터 2줄로, 종일 칩이 날짜 머리 아래 바로, + 단추가 칸을 안 가리고 아래로 밀면 숨는지(명세 §3 2~5) ② 3일·일 보기 칸 높이·일 보기는 제목 그대로 ③ 견적서 미리보기(hilink) 공급자 주소 두 줄 ④ 명세 §3 1·6(구글 11건·중복 정리)은 가져오기를 대표가 취소(#604)해 하지 않음 — 워크인에 직접 넣은 일정만 보임.

diff --git a/docs/research/VIDEO_ENGINE_SELFHOST_2026-10-28.md b/docs/research/VIDEO_ENGINE_SELFHOST_2026-10-28.md
@@ -61,6 +61,29 @@
 - 나): P2P 엔진(연결 정보 주고받기 API·브라우저 영상 연결·4명 넘으면 막기·연결 실패 안내) · 회의 화면 영상 타일·음소거·화면 공유 · 휴대폰 폭·앱 웹뷰 · 시험(브라우저 두 개 자동 연결 시험 — 실제 회사망·휴대폰망은 대표 시험).
 - 가): 설치 설명서(오라클 화면 순서·방화벽 UDP 열기·라이브킷·TURN 설정, 비밀값 자리만) · 어댑터 연결 · 5명 이상/실패 시 서버로 넘기기.
 
+## 더 좋은 방법 — 클라우드플레어 Realtime 비교 (#779 · 대표 10/28 22:40 "영상회의 더 좋은 방법 없는지")
+로컬 제안: 우리 서버를 두는 대신 클라우드플레어 Realtime(SFU·TURN)을 엔진으로. 영상은 브라우저 ↔ 클라우드플레어가 직접 주고받고, 우리 앱(Vercel)은 HTTPS 로 세션·트랙만 연결 → UDP 서버·운영이 필요 없음.
+
+| 안 | 우리가 운영할 서버 | 비용(공개 요금 기준) | 인원 | 실패할 수 있는 곳 | 기간(추정) | 대표가 할 일 |
+|---|---|---|---|---|---|---|
+| **클라우드플레어 Realtime(추천)** | 없음(Vercel 그대로) | SFU·TURN 합쳐 바깥 전송 **월 1,000GB 무료**, 넘으면 GB당 $0.05 · 들어오는 전송 무료 | SFU 라 소규모 회의 수십 명까지 가능(추정) | 서울 지점 지연은 문서에 없음(시험 필요) · 클라우드플레어 장애 때 회의 불가 | 2~3주 | Realtime 앱 1개 만들기 → 앱 ID·토큰을 Vercel 환경변수에 붙여넣기(값은 대표가 직접) |
+| 라이브킷 직접 운영(②-나 · 오라클 무료 서버) | 1대(설치·업데이트·감시) | 0원(무료 범위) ~ 월 수만~10만원 | 10~20명(추정) | 무료 자리 없음·쉬는 서버 회수·서버 장애를 우리가 처리 | 3일 + 1~2주 | 오라클 계정·서버·열쇠·도메인 |
+| 라이브킷 클라우드(무료 Build) | 없음 | 무료 월 **5,000 참가자·분**·하향 50GB — 넘으면 그달은 새 회의가 막힘(초과 요금 대신 거절) | 3명 1시간 = 180 참가자·분 → 3인 회의 월 약 27시간까지 | 무료 한도 · 외부 서비스 | 3일(이미 만든 livekit 어댑터) | 계정·키 붙여넣기 |
+| 기기끼리 P2P(나) | 없음 | 0원 | 최대 4명 | 회사망·일부 휴대폰망(TURN 없으면) | 1~2주 | 없음 |
+
+어림 계산(추정 — 화질·인원에 따라 다름): 3명 1시간 회의 ≈ 바깥 전송 3GB → 월 1,000GB 무료분이면 3인 회의 약 330시간. 5명 1시간 ≈ 4.5GB.
+
+로컬 질문에 대한 답
+1. **어댑터에 cloudflare 추가 기간**: 2~3주(추정) — 엔진 어댑터(세션 만들기·트랙 내보내기/받기 HTTPS 호출) 1주 · 클라우드플레어에는 '방'이 없으므로 참가자·트랙 목록은 우리 회의 표(218·219차)에 두고 화면이 1~2초마다 확인(Vercel 은 오래 열린 연결이 제한돼 SSE 보다 짧은 조회가 안전) · 회의 화면 영상 타일·음소거·화면 공유·재연결 1주 · 시험 3~5일. 대기실·입장권·회의 기록은 그대로.
+2. **아이폰 사파리·앱 웹뷰 카메라·마이크 시험**: 사파리 1:1 → 앱 1:1 → 앱·PC 3명 순서. 앱 웹뷰는 iOS 14.3 이후 카메라·마이크를 쓸 수 있으나 앱 권한 문구(로컬이 맞춤)와 웹뷰 권한 허용 설정이 필요 — **확인 못함, 실기기 시험 필요**.
+3. **녹화(주최자 MediaRecorder → R2)**: 가능 — 주최자 브라우저가 화면·소리를 녹화해 조각으로 R2 에 올림. 다만 주최자 기기 부담·탭을 닫으면 끊김. 녹화는 대표 결정 ④ 뒤.
+4. **1:1 은 P2P 로 먼저**: 가능 — 연결 안내는 우리 회의 API, 막히는 망은 클라우드플레어 TURN(같은 무료분)으로. 3명부터 SFU.
+5. **서울 지연**: 문서에서 확인 못함 → 대표·직원 2명이 회사 와이파이·휴대폰 데이터로 10분 시험해 끊김·지연을 적기.
+
+결론(제안): **클라우드플레어 Realtime** — 서버 운영이 없고, 사내 사용량은 무료분 안일 가능성이 큼(추정), R2 로 이미 계정이 있음. 대표가 고르면 클라우드가 어댑터부터 시작. 확인 못함: 서울 지연·아이폰 웹뷰·실제 전송량.
+
+공개 자료(2026-10-28 검색): [클라우드플레어 Realtime SFU 요금](https://developers.cloudflare.com/realtime/sfu/pricing) · [클라우드플레어 TURN/SFU](https://www.cloudflare.com/products/turn-sfu/) · [라이브킷 클라우드 한도](https://docs.livekit.io/home/cloud/quotas-and-limits/)
+
 ## 확인 못함
 - 실제 서버 성능·전송량·비용(서버가 없어 측정 못함 — 추정). 아이폰 앱 웹뷰에서 카메라·마이크 권한(실기기 확인 필요).
 - 비용 0 안: P2P 연결 실패 비율(우리 회사망·휴대폰망 실측 없음) · 오라클 무료 A1 자리·회수 기준·무료 범위의 현재 값(계정에서 확인).
